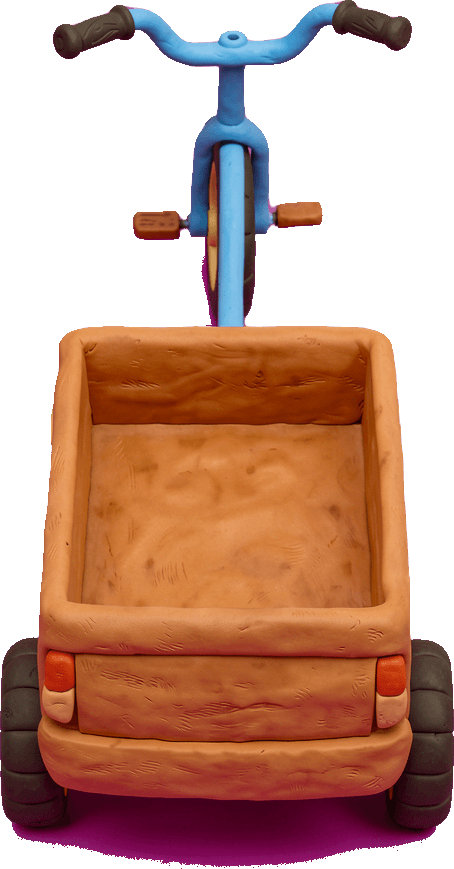
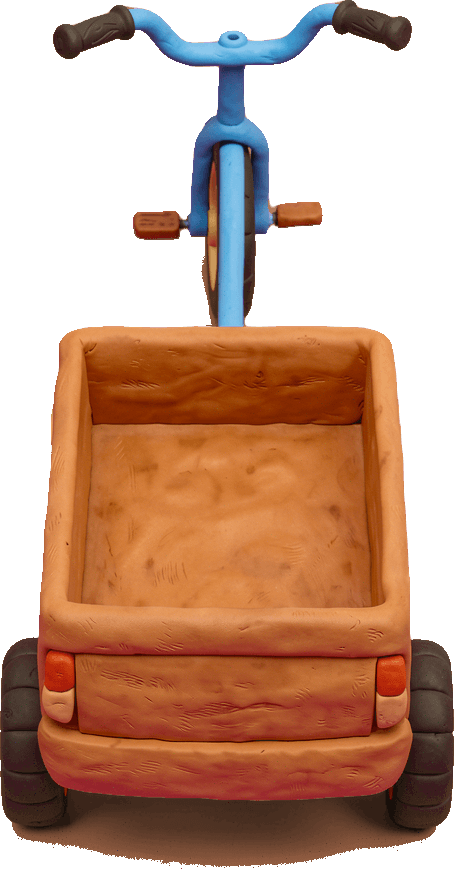
fix(art): Trikey inked in wine-black where the fleet inks in brown
The pink halo under her cargo box was not a shadow blend or a tint applied
in code — it is in the sprite. Her darks are wine-blacks like rgb(72,0,30),
red above blue above green with green at literally zero, where Henry inks
at (43,31,29), Bea (52,35,22) and Big Tilly (57,32,19): red above green
above blue, warm brown, about 21 degrees at 0.55 saturation.

A hue correction rather than a repaint. Pixels in the magenta band keep
their value exactly, so every bit of shading structure survives, and have
their hue walked round to the fleet's with saturation eased down. Her blue
frame at hue 210 and the wicker box at 35 fall outside the band and are
untouched. 15.9% of the front and 12.5% of the rear moved.

She is still the claymation render — the only vehicle never repainted — and
that waits on the bicycle-versus-trike question.

diff --git a/tools/fix-trikey-magenta.py b/tools/fix-trikey-magenta.py
@@ -1,0 +1,67 @@
+#!/usr/bin/env python3
+"""Bring Trikey's ink into the fleet's hue family.
+
+Her sprites carry a magenta cast nothing else in the fleet has: 8.6% of her
+front's opaque pixels and 10.5% of her rear's are wine-blacks like rgb(72,0,30)
+— red above blue above green, with green at zero. On screen it reads as a pink
+halo under her cargo box.
+
+The rest of the fleet inks in warm brown-black, red above green above blue:
+Henry (43,31,29), Bea (52,35,22), Big Tilly (57,32,19). Mean hue about 21
+degrees at about 0.55 saturation.
+
+So this is a hue correction, not a repaint. Pixels in the magenta band keep
+their VALUE — all the shading structure survives — and have their hue walked
+round to the fleet's and their saturation pulled down to the fleet's. The blue
+frame (hue ~210) and the wicker box (~35) are outside the band and untouched.
+"""
+import colorsys
+import os
+import shutil
+
+import numpy as np
+from PIL import Image
+
+A = '/Users/marcus/Projects/animal-rescue-centre/apps/game/public/assets/driving/topdown'
+BACKUP = '/Users/marcus/Projects/animal-rescue-centre/asset-drafts/pre-trikey-hue-backup'
+TARGET_H, TARGET_S = 21.0 / 360.0, 0.55
+BAND = (285.0, 352.0)          # magenta through to just short of red
+
+os.makedirs(BACKUP, exist_ok=True)
+for name in ('vehicle-topdown-trikey.png', 'vehicle-topdown-trikey-rear.png'):
+    src = os.path.join(A, name)
+    shutil.copy2(src, os.path.join(BACKUP, name))
+
+    im = Image.open(src).convert('RGBA')
+    a = np.array(im).astype(np.float64)
+    rgb, alpha = a[..., :3] / 255.0, a[..., 3]
+
+    mx, mn = rgb.max(axis=2), rgb.min(axis=2)
+    delta = mx - mn
+    # hue, vectorised
+    h = np.zeros_like(mx)
+    nz = delta > 1e-6
+    r, g, b = rgb[..., 0], rgb[..., 1], rgb[..., 2]
+    ir, ig, ib = (mx == r) & nz, (mx == g) & nz, (mx == b) & nz
+    h[ir] = (60 * (((g - b)[ir] / delta[ir]) % 6))
+    h[ig] = (60 * (((b - r)[ig] / delta[ig]) + 2))
+    h[ib] = (60 * (((r - g)[ib] / delta[ib]) + 4))
+    s = np.where(mx > 1e-6, delta / np.maximum(mx, 1e-6), 0.0)
+    v = mx
+
+    hit = (alpha > 16) & (h >= BAND[0]) & (h <= BAND[1]) & (s > 0.15)
+    n = int(hit.sum())
+
+    out = rgb.copy()
+    ys, xs = np.nonzero(hit)
+    for y, x in zip(ys, xs):
+        # Value kept exactly; hue moved to the fleet's; saturation eased down
+        # rather than clamped, so a strongly coloured pixel stays stronger.
+        ns = min(s[y, x], TARGET_S) if s[y, x] > TARGET_S else s[y, x]
+        out[y, x] = colorsys.hsv_to_rgb(TARGET_H, ns, v[y, x])
+
+    a[..., :3] = np.clip(out * 255.0, 0, 255)
+    Image.fromarray(a.astype(np.uint8)).save(src, optimize=True)
+    print(f'{name}: recoloured {n} px ({100 * n / (alpha > 16).sum():.1f}% of opaque)')
+
+print(f'originals backed up to {BACKUP}')
